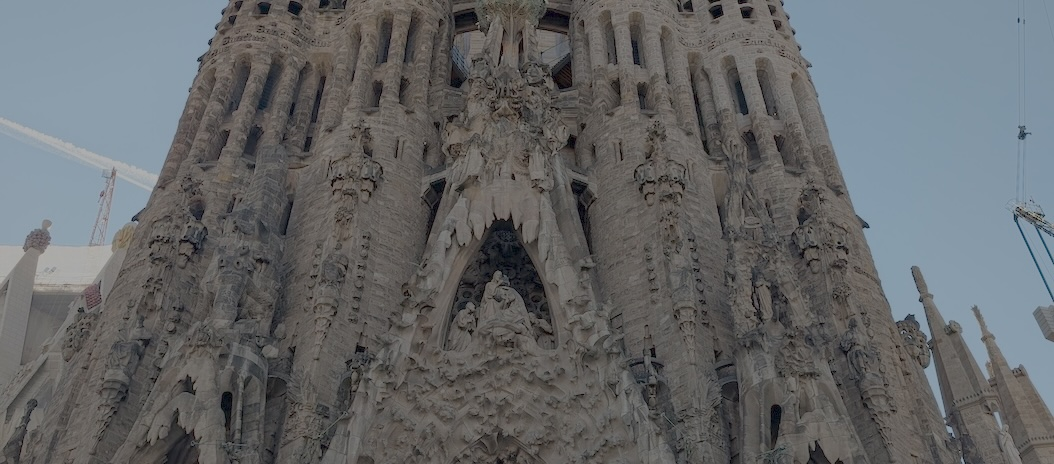
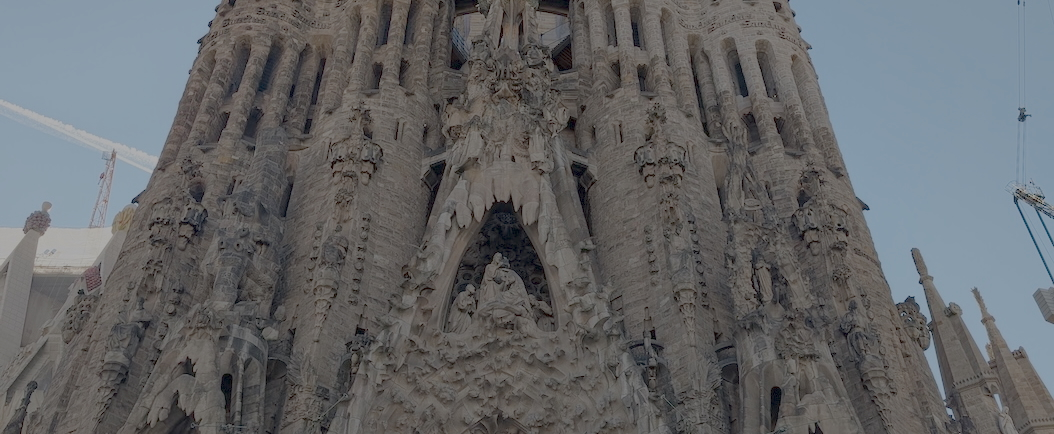
Improved the images quality

diff --git a/app/src/main/java/com/jiahaoliuliu/coilimagecaching/ImagesProvider.kt b/app/src/main/java/com/jiahaoliuliu/coilimagecaching/ImagesProvider.kt
@@ -9,4 +9,14 @@ object ImagesProvider {
             "https://raw.githubusercontent.com/jiahaoliuliu/CoilImageCaching/refs/heads/main/images/Sagrada%20familia.jpg",
             "https://raw.githubusercontent.com/jiahaoliuliu/CoilImageCaching/refs/heads/main/images/Snow.jpg",
         )
+
+    fun provideCroppedImages() =
+        listOf(
+            "https://raw.githubusercontent.com/jiahaoliuliu/CoilImageCaching/refs/heads/memoryOptimization/imagesCropped/Coffee.jpg",
+            "https://raw.githubusercontent.com/jiahaoliuliu/CoilImageCaching/refs/heads/memoryOptimization/imagesCropped/Cookies.jpg",
+            "https://raw.githubusercontent.com/jiahaoliuliu/CoilImageCaching/refs/heads/memoryOptimization/imagesCropped/Pastel%20de%20Belen.jpg",
+            "https://raw.githubusercontent.com/jiahaoliuliu/CoilImageCaching/refs/heads/memoryOptimization/imagesCropped/Sagrada%20familia.jpg",
+            "https://raw.githubusercontent.com/jiahaoliuliu/CoilImageCaching/refs/heads/memoryOptimization/imagesCropped/Snow.jpg",
+        )
+
 }

diff --git a/app/src/main/java/com/jiahaoliuliu/coilimagecaching/MainActivity.kt b/app/src/main/java/com/jiahaoliuliu/coilimagecaching/MainActivity.kt
@@ -33,7 +33,8 @@ class MainActivity : ComponentActivity() {
     override fun onCreate(savedInstanceState: Bundle?) {
         super.onCreate(savedInstanceState)
         enableEdgeToEdge()
-        val imagesList = ImagesProvider.provideOriginalImages()
+//        val imagesList = ImagesProvider.provideOriginalImages()
+        val imagesList = ImagesProvider.provideCroppedImages()
         val contentScale = ContentScale.Crop
         setContent {
             CoilImageCachingTheme {
